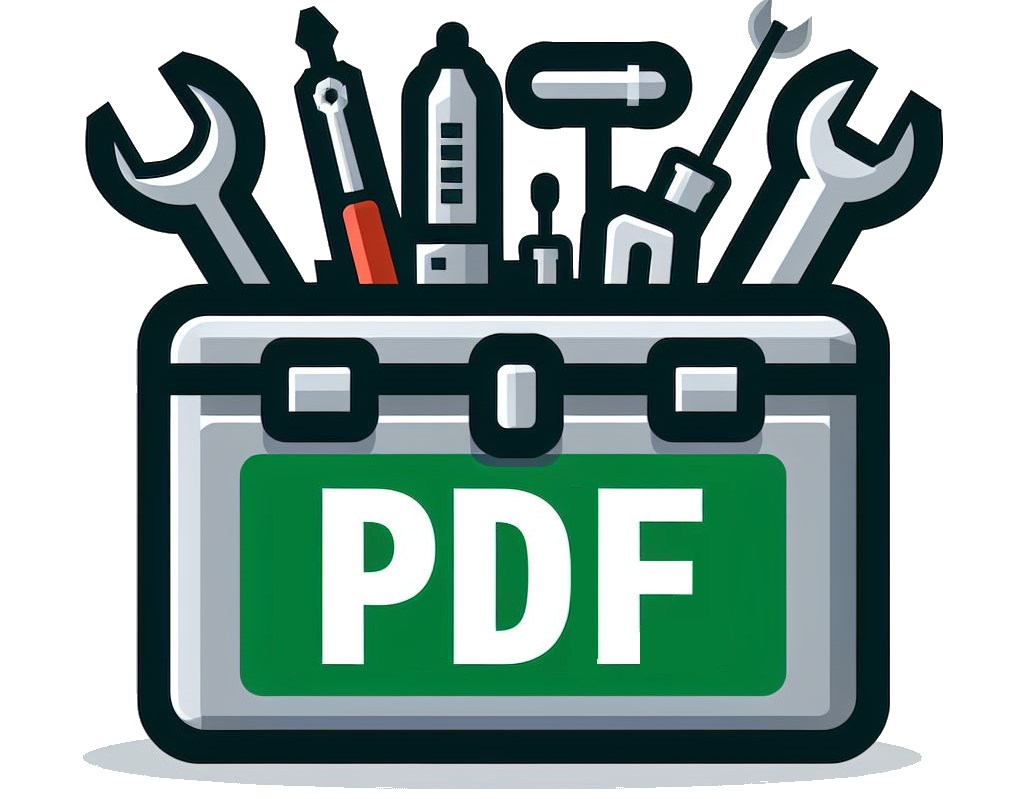
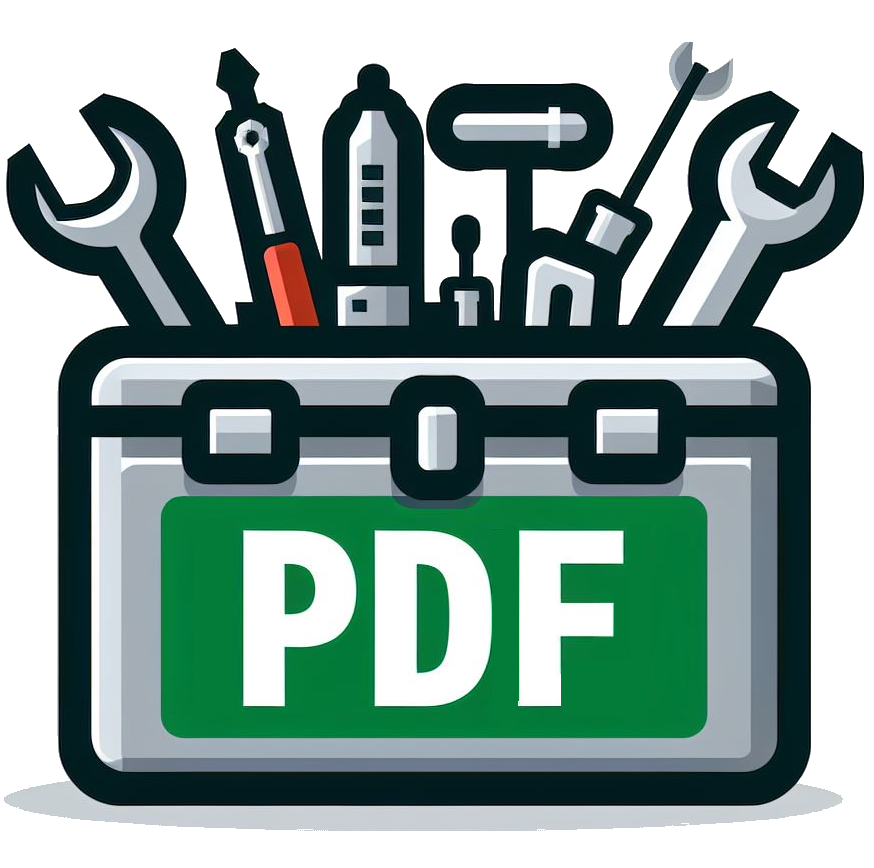
update: various things

diff --git a/src/compressor_func.py b/src/compressor_func.py
@@ -17,9 +17,7 @@ def compressor_check(file_read):
     if file_read != "":  # ファイルが存在する場合
         ok = messagebox.askokcancel(
             "pdf-compressor",
-            "以下のファイルを圧縮します：\n"
-            + file_read
-            + "\nよろしければ、OKを押してください。",
+            "以下のファイルを圧縮します：\n" + file_read + "\nよろしければ、OKを押してください。",
         )
 
         if ok:
@@ -47,8 +45,11 @@ def compressing(file_read):
     ghostscriptを拝借した圧縮の本体。設定ウィンドウもあるよ。
     """
     root_s = Tk()
+
     root_s.geometry("250x240")
+    root_s.resizable(False, False)
     root_s.title("pdf-compressor")
+    root_s.iconbitmap(default="favicon.ico")
 
     radio_var = StringVar(root_s)
 
@@ -112,37 +113,37 @@ def compressing(file_read):
         "圧縮前のファイルを削除しますか？",
     )
 
-    for file_name in file_read:
-        if replace == "yes":
-            file_name_temp = file_name.replace(".pdf", "_.pdf")
-            subprocess.check_output(
-                [
-                    "gswin64c",
-                    "-sDEVICE=pdfwrite",
-                    f"-dPDFSETTINGS={radio_var.get()}",
-                    "-dBATCH",
-                    "-dNOPAUSE",
-                    "-dSAFER",
-                    f"-sOUTPUTFILE={file_name_temp,}",
-                    file_name,
-                ]
-            )
-            os.remove(file_name)
-            os.rename(file_name_temp, file_name)
-        else:
-            file_name_save = file_name.replace(".pdf", "_compressed.pdf")
-            subprocess.check_output(
-                [
-                    "gswin64c",
-                    "-sDEVICE=pdfwrite",
-                    f"-dPDFSETTINGS={radio_var.get()}",
-                    "-dBATCH",
-                    "-dNOPAUSE",
-                    "-dSAFER",
-                    f"-sOUTPUTFILE={file_name_save,}",
-                    file_name,
-                ]
-            )
+    file_name = file_read
+    if replace == "yes":
+        file_name_temp = file_name.replace(".pdf", "_.pdf")
+        subprocess.check_output(
+            [
+                "gswin64c",
+                "-sDEVICE=pdfwrite",
+                "-dPDFSETTINGS=%s" % (radio_var.get()),
+                "-dBATCH",
+                "-dNOPAUSE",
+                "-dSAFER",
+                "-sOUTPUTFILE=%s" % (file_name_temp,),
+                file_name,
+            ]
+        )
+        os.remove(file_name)
+        os.rename(file_name_temp, file_name)
+    else:
+        file_name_save = file_name.replace(".pdf", "_compressed.pdf")
+        subprocess.check_output(
+            [
+                "gswin64c",
+                "-sDEVICE=pdfwrite",
+                "-dPDFSETTINGS=%s" % (radio_var.get()),
+                "-dBATCH",
+                "-dNOPAUSE",
+                "-dSAFER",
+                "-sOUTPUTFILE=%s" % (file_name_save,),
+                file_name,
+            ]
+        )
 
     messagebox.showinfo("pdf-compressor", "処理が完了しました。")
     root.destroy()

diff --git a/src/merger_func.py b/src/merger_func.py
@@ -72,7 +72,9 @@ def merging(files_read):
     結合の本体
     """
     root_o = Tk()
+
     root_o.geometry("600x350")
+    root_o.resizable(False, False)
     root_o.title("pdf-merger")
 
     def up_list():  # 選択したファイルを1つ前に
@@ -162,7 +164,9 @@ def merging(files_read):
 
         if compress == "yes":
             root_s = Tk()
+
             root_s.geometry("250x240")
+            root_s.resizable(False, False)
             root_s.title("pdf-merger")
 
             radio_var = StringVar(root_s)
@@ -222,11 +226,11 @@ def merging(files_read):
                 [
                     "gswin64c",
                     "-sDEVICE=pdfwrite",
-                    f"-dPDFSETTINGS={radio_var.get()}",
+                    "-dPDFSETTINGS=%s" % (radio_var.get()),
                     "-dBATCH",
                     "-dNOPAUSE",
                     "-dSAFER",
-                    f"-sOUTPUTFILE={file_name_temp,}",
+                    "-sOUTPUTFILE=%s" % (file_name_temp,),
                     file_name_save,
                 ]
             )

diff --git a/src/main.py b/src/main.py
@@ -11,7 +11,9 @@ from separator_func import separating, separator_check
 root = Tk()
 dirname = os.path.dirname(__file__)
 iDir = os.path.abspath(dirname)
+
 root.geometry("250x240")
+root.resizable(False, False)
 root.title("minimum-pdf-tools")
 
 radio_var = StringVar(root)

diff --git a/src/separator_func.py b/src/separator_func.py
@@ -88,7 +88,9 @@ def separating(file_read):
 
     else:
         root_o = Tk()
+
         root_o.geometry("600x350")
+        root_o.resizable(False, False)
         root_o.title("pdf-separator")
 
         def up_list():  # 選択したファイルを1つ前に

diff --git a/readme.md b/readme.md
@@ -100,6 +100,11 @@ Requirementにあるパッケージを入れたPython環境（仮想でも生で
 * 圧縮関係における名前の埋め込みをf-strings（フォーマット文字列リテラル）へ変更
 * mergerのほうでもwith構文が使われるようにコードを統一
 
+2024/01/14 (v5.10)
+* f-stringsでエラーが発生したため、元に戻す
+* tkinterによるウィンドウのresizableを縦横ともにFalseに設定
+* icon.pngが正方形に近くなるように整形
+
 ## Author
 <div align="center">
 <img src="https://avatars.githubusercontent.com/u/113882060?v=4" width="100" height="100"><br>
